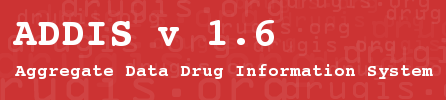
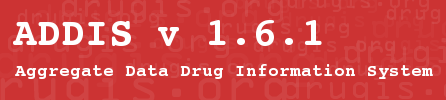
ADDIS 1.6.1 automated changes

Changed region(s): [[0.6413, 0.18, 0.7287, 0.45]]

diff --git a/src/test/java/org/drugis/addis/presentation/RankProbabilityTableModelTest.java b/src/test/java/org/drugis/addis/presentation/RankProbabilityTableModelTest.java
@@ -1,3 +1,27 @@
+/*
+ * This file is part of ADDIS (Aggregate Data Drug Information System).
+ * ADDIS is distributed from http://drugis.org/.
+ * Copyright (C) 2009 Gert van Valkenhoef, Tommi Tervonen.
+ * Copyright (C) 2010 Gert van Valkenhoef, Tommi Tervonen, 
+ * Tijs Zwinkels, Maarten Jacobs, Hanno Koeslag, Florin Schimbinschi, 
+ * Ahmad Kamal, Daniel Reid.
+ * Copyright (C) 2011 Gert van Valkenhoef, Ahmad Kamal, 
+ * Daniel Reid, Florin Schimbinschi.
+ *
+ * This program is free software: you can redistribute it and/or modify
+ * it under the terms of the GNU General Public License as published by
+ * the Free Software Foundation, either version 3 of the License, or
+ * (at your option) any later version.
+ *
+ * This program is distributed in the hope that it will be useful,
+ * but WITHOUT ANY WARRANTY; without even the implied warranty of
+ * MERCHANTABILITY or FITNESS FOR A PARTICULAR PURPOSE.  See the
+ * GNU General Public License for more details.
+ *
+ * You should have received a copy of the GNU General Public License
+ * along with this program.  If not, see <http://www.gnu.org/licenses/>.
+ */
+
 package org.drugis.addis.presentation;
 
 import static org.easymock.EasyMock.anyObject;

diff --git a/src/main/java/org/drugis/addis/presentation/RankProbabilityTableModel.java b/src/main/java/org/drugis/addis/presentation/RankProbabilityTableModel.java
@@ -1,3 +1,27 @@
+/*
+ * This file is part of ADDIS (Aggregate Data Drug Information System).
+ * ADDIS is distributed from http://drugis.org/.
+ * Copyright (C) 2009 Gert van Valkenhoef, Tommi Tervonen.
+ * Copyright (C) 2010 Gert van Valkenhoef, Tommi Tervonen, 
+ * Tijs Zwinkels, Maarten Jacobs, Hanno Koeslag, Florin Schimbinschi, 
+ * Ahmad Kamal, Daniel Reid.
+ * Copyright (C) 2011 Gert van Valkenhoef, Ahmad Kamal, 
+ * Daniel Reid, Florin Schimbinschi.
+ *
+ * This program is free software: you can redistribute it and/or modify
+ * it under the terms of the GNU General Public License as published by
+ * the Free Software Foundation, either version 3 of the License, or
+ * (at your option) any later version.
+ *
+ * This program is distributed in the hope that it will be useful,
+ * but WITHOUT ANY WARRANTY; without even the implied warranty of
+ * MERCHANTABILITY or FITNESS FOR A PARTICULAR PURPOSE.  See the
+ * GNU General Public License for more details.
+ *
+ * You should have received a copy of the GNU General Public License
+ * along with this program.  If not, see <http://www.gnu.org/licenses/>.
+ */
+
 package org.drugis.addis.presentation;
 
 import java.beans.PropertyChangeEvent;
